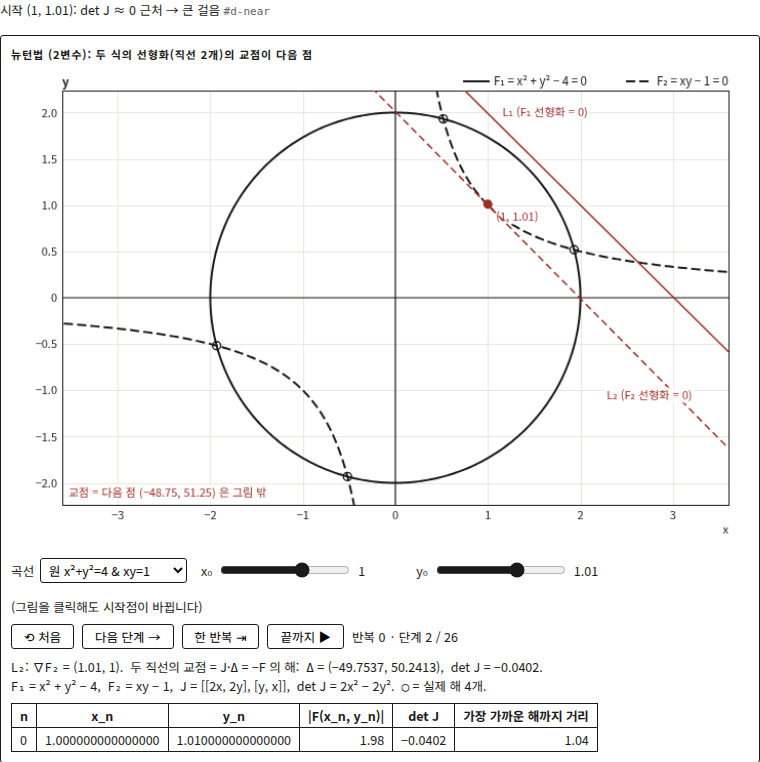
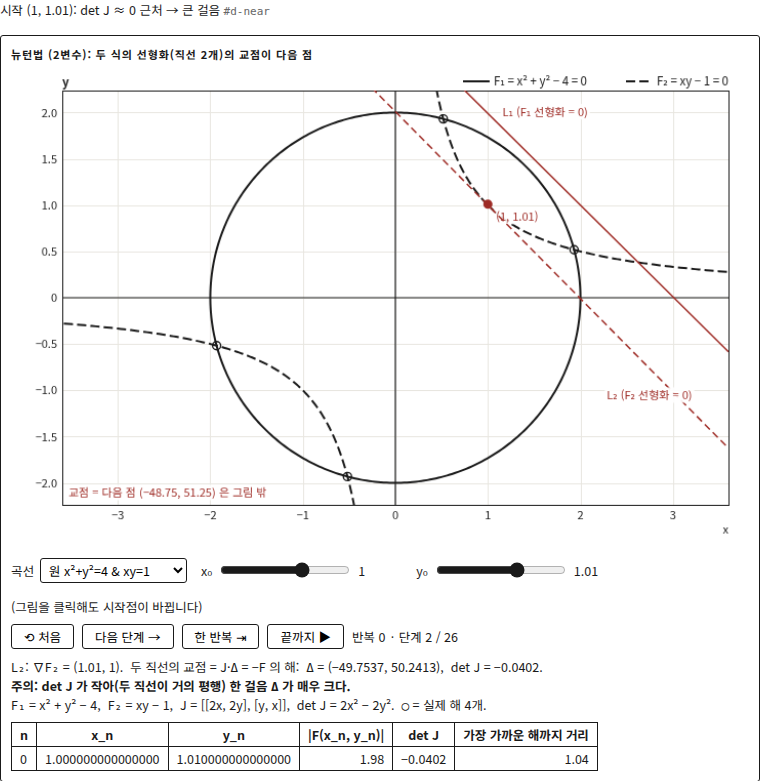
v6-extra-a: apply independent review (divergence status, slow-convergence detection, fmt exponent leak, near-singular warning, cfg types, stop playback on change); report

diff --git a/assets/v6-extra-a.js b/assets/v6-extra-a.js
@@ -34,7 +34,11 @@ function fmt(v,sig){
     return neg(trimZeros(s.slice(0,k)))+"×10"+mapChars(String(parseInt(s.slice(k+1),10)),SUP);
   }
   if(a>=Math.pow(10,sig))return neg(String(Math.round(v)));
-  return neg(trimZeros(v.toPrecision(sig)));
+  var t=v.toPrecision(sig);
+  if(t.indexOf("e")>=0){var k2=t.indexOf("e"),ex=parseInt(t.slice(k2+1),10);
+    if(ex<6)return neg(String(Math.round(v)));
+    return neg(trimZeros(t.slice(0,k2)))+"×10"+mapChars(String(ex),SUP);}
+  return neg(trimZeros(t));
 }
 /* table: many digits so the doubling of correct digits is visible */
 function fmtLong(v){
@@ -118,10 +122,13 @@ calc.newton1d=function(f,df,x0,maxIt){
     if(!isFinite(x)||!isFinite(fx)){status="nan";break;}
     if(fx===0){status="root";break;}
     if(!isFinite(d)){status="nan";break;}
-    if(Math.abs(d)<FLAT){status=Math.abs(x)>1e6?"diverge":"flat";break;} // tiny slope far out = runaway, not a stall
+    if(d===0){status="flat";break;}
     var xn=x-fx/d;
     cur.next=xn;
-    if(!isFinite(xn)||Math.abs(xn)>BIG){status="diverge";break;}
+    if(!isFinite(xn)||Math.abs(xn)>BIG){
+      /* huge step: a near-horizontal tangent at a moderate x is a stall; far out it is a runaway */
+      if(Math.abs(d)<FLAT&&Math.abs(x)<1e6){status="flat";delete cur.next;}else status="diverge";
+      break;}
     it.push({x:xn,fx:f(xn)});
     if(Math.abs(xn-x)<=2e-16*Math.max(1,Math.abs(x))){status="conv";break;}
   }
@@ -208,6 +215,9 @@ calc.longRun=function(g,x0){
       return {kind:p===1?"fixed":"cycle",p:p,pts:c.slice(0,p),slow:slow||(p===1&&spreadA>1e-9)};
     }
   }
+  var dd=[];for(i=1;i<c.length;i++)dd.push(Math.abs(c[i]-c[i-1]));
+  var shrinking=spreadB<0.9*spreadA&&dd.every(function(v,j){return j===0||v<=dd[j-1]*(1+1e-9);});
+  if(shrinking)return {kind:"fixed",p:1,pts:[c[c.length-1]],slow:true};
   return {kind:"none",sample:c[0]};
 };
 calc.logistic={
@@ -383,7 +393,7 @@ function seriesWidget(el,cfg){
   if(!SERIES[preset]){msgs.push("알 수 없는 preset ‘"+preset+"’ → 기하급수로 표시합니다.");preset="geometric";}
   var NMAX=Math.round(clamp(num(cfg.Nmax,200),5,500));
   var st={preset:preset,N:Math.round(clamp(num(cfg.N,30),1,NMAX)),
-    r:clamp(num(cfg.r,0.5),-1.5,1.5),p:clamp(num(cfg.p,1.5),0.5,3),
+    r:Math.round(clamp(num(cfg.r,0.5),-1.5,1.5)*20)/20,p:Math.round(clamp(num(cfg.p,1.5),0.5,3)*20)/20,
     term:typeof cfg.term==="string"?cfg.term:"1/pow(n,2)",kind:null,termFn:null};
   st.kind=cfg.kind==="sequence"||cfg.kind==="series"?cfg.kind:(SERIES[preset].defKind||"series");
   var c=V6.canvas(el,470),ctx=c.getContext("2d");
@@ -475,7 +485,7 @@ function newton1dWidget(el,cfg){
   var msgs=[],preset=cfg.preset;
   if(preset===undefined)preset=(typeof cfg.f==="string")?"custom":"sqrt2";
   if(!NEWTON[preset]){msgs.push("알 수 없는 preset ‘"+preset+"’ → x² − 2 로 표시합니다.");preset="sqrt2";}
-  var st={preset:preset,step:0,maxIt:Math.round(clamp(num(cfg.maxIter,8),1,30)),f:cfg.f||"x*x-2",df:cfg.df||"",cust:null,x0:null,x:null,y:null};
+  var st={preset:preset,step:0,maxIt:Math.round(clamp(num(cfg.maxIter,8),1,30)),f:typeof cfg.f==="string"?cfg.f:"x*x-2",df:typeof cfg.df==="string"?cfg.df:"",cust:null,x0:null,x:null,y:null};
   function setPreset(p,first){
     st.preset=p;var P=NEWTON[p];
     var xr=(first&&Array.isArray(cfg.x)&&cfg.x.length===2)?[num(cfg.x[0],NaN),num(cfg.x[1],NaN)]:P.x.slice();
@@ -490,8 +500,8 @@ function newton1dWidget(el,cfg){
   var c=V6.canvas(el,360),ctx=c.getContext("2d");
   var ctl=mk("div","v6-controls");el.appendChild(ctl);
   addSelect(ctl,"예시",Object.keys(NEWTON).map(function(k){return [k,NEWTON[k].label];}),st.preset,function(v){
-    setPreset(v,false);x0S.set(st.x0);x0Range();sync();recompute();draw();});
-  var x0S=addSlider(ctl,"x₀",st.x[0],st.x[1],0.01,st.x0,function(v){return fmt(v,4);},function(v){st.x0=v;st.step=0;recompute();draw();});
+    stop();setPreset(v,false);x0S.set(st.x0);x0Range();sync();recompute();draw();});
+  var x0S=addSlider(ctl,"x₀",st.x[0],st.x[1],0.01,st.x0,function(v){return fmt(v,4);},function(v){stop();st.x0=v;st.step=0;recompute();draw();});
   function x0Range(){var inp=x0S.lab.querySelector("input");inp.min=st.x[0];inp.max=st.x[1];inp.step=(st.x[1]-st.x[0])>8?0.05:0.01;x0S.set(st.x0);}
   var bar=mk("div","v6-stepbar");el.appendChild(bar);
   var bReset=addBtn(bar,"⟲ 처음",function(){stop();st.step=0;draw();});
@@ -504,7 +514,7 @@ function newton1dWidget(el,cfg){
   function inBox(lbl,val,size){var l=mk("label",null,lbl+" "),i=mk("input");i.type="text";i.value=val;i.size=size;
     i.style.cssText="font:inherit;font-size:12.5px;border:1.2px solid #1a1a1a;border-radius:3px;padding:1px 6px";l.appendChild(i);cRow.appendChild(l);return i;}
   var fIn=inBox("f(x) =",st.f,22),dIn=inBox("f'(x) =",st.df,18);dIn.placeholder="비우면 수치미분";
-  addBtn(cRow,"적용",function(){st.f=fIn.value;st.df=dIn.value;st.step=0;recompute();draw();});
+  addBtn(cRow,"적용",function(){stop();st.f=fIn.value;st.df=dIn.value;st.step=0;recompute();draw();});
   var err=errBox(el),state=mk("div","v6-state");el.appendChild(state);
   var tbl=mk("div","v6-state");tbl.style.overflowX="auto";el.appendChild(tbl);
   var run=null,F=null,DF=null,root=null,rootNote="",custErr="";
@@ -571,8 +581,7 @@ function newton1dWidget(el,cfg){
       var last=it[it.length-1];
       if(run.status==="flat")end=Math.abs(last.fx)<1e-12?"멈춤: f(x)와 f'(x)가 모두 ≈ 0 — 중근 근처에 도달 (더 나눌 수 없음).":
         "멈춤: f'(x"+sub(it.length-1)+") ≈ 0 → 접선이 수평이라 x축과 만나지 않는다 (x_{n+1} 정의 안 됨). 다른 x₀ 를 고르세요.";
-      else if(run.status==="diverge")end=last.next!==undefined?"발산: |x| 가 10⁸ 을 넘어 중단 (x"+sub(it.length)+" = "+fmt(last.next,4)+").":
-        "발산: x"+sub(it.length-1)+" = "+fmt(last.x,4)+" 까지 멀어져 f' 이 사실상 0 — 더 진행할 수 없다.";
+      else if(run.status==="diverge")end="발산: 다음 값 x"+sub(it.length)+" = "+fmt(last.next,4)+" 의 크기가 10⁸ 을 넘어 중단.";
       else if(run.status==="nan")end="중단: f 또는 f' 이 정의되지 않는 점에 도달.";
       else if(run.status==="root")end="f(x"+sub(it.length-1)+") = 0 정확히 — 근에 도달.";
       else if(run.status==="conv")end="수렴: 더 반복해도 x 가 기계정밀도 안에서 변하지 않는다.";
@@ -594,7 +603,7 @@ function newton1dWidget(el,cfg){
         "</td><td style='text-align:right'>"+esc(isNaN(r2)?"—":fmt(r2,3))+"</td></tr>";
     }
     h+="</table>"+(root!==null?"r = "+(P.rootT&&P.rootT!==fmtLong(root)?esc(P.rootT)+" = ":"")+esc(fmtLong(root))+" "+esc(rootNote):esc(rootNote))+
-      (C!==null&&!P.multiple?"  ·  이 근에서 C = |f''(r)/(2f'(r))| ≈ "+esc(fmt(C,4))+(C<1e-12?" (f''(r) = 0 이라 수렴이 2차보다 빠르다: 이 경우 3차)":""):"")+
+      (C!==null&&!P.multiple?"  ·  이 근에서 C = |f''(r)/(2f'(r))| ≈ "+esc(fmt(C,4))+(C<1e-12&&(run.status==="conv"||run.status==="root")?" (f''(r) = 0 이라 수렴이 2차보다 빠르다: 이 경우 3차)":""):"")+
       (P.multiple?"  ·  e_n/e_{n−1} → 1/2 (1차 수렴)":"")+
       "\n(e_{n−1} ≥ 1 이면 e_n/e_{n−1}² 은 의미가 없어 ‘—’)";
     tbl.innerHTML=h;
@@ -635,9 +644,9 @@ function newton2dWidget(el,cfg){
   var c=V6.canvas(el,470),ctx=c.getContext("2d");c.style.cursor="crosshair";
   var ctl=mk("div","v6-controls");el.appendChild(ctl);
   addSelect(ctl,"곡선",Object.keys(PAIRS).map(function(k){return [k,PAIRS[k].label];}),st.pair,function(v){
-    st.pair=v;st.x0=PAIRS[v].x0;st.y0=PAIRS[v].y0;xS.set(st.x0);yS.set(st.y0);st.step=0;recompute();draw();});
-  var xS=addSlider(ctl,"x₀",-LIM,LIM,0.01,st.x0,function(v){return fmt(v,4);},function(v){st.x0=v;st.step=0;recompute();draw();});
-  var yS=addSlider(ctl,"y₀",-LIM,LIM,0.01,st.y0,function(v){return fmt(v,4);},function(v){st.y0=v;st.step=0;recompute();draw();});
+    stop();st.pair=v;st.x0=PAIRS[v].x0;st.y0=PAIRS[v].y0;xS.set(st.x0);yS.set(st.y0);st.step=0;recompute();draw();});
+  var xS=addSlider(ctl,"x₀",-LIM,LIM,0.01,st.x0,function(v){return fmt(v,4);},function(v){stop();st.x0=v;st.step=0;recompute();draw();});
+  var yS=addSlider(ctl,"y₀",-LIM,LIM,0.01,st.y0,function(v){return fmt(v,4);},function(v){stop();st.y0=v;st.step=0;recompute();draw();});
   ctl.appendChild(mk("span",null,"(그림을 클릭해도 시작점이 바뀝니다)"));
   var bar=mk("div","v6-stepbar");el.appendChild(bar);
   var bReset=addBtn(bar,"⟲ 처음",function(){stop();st.step=0;draw();});
@@ -732,7 +741,7 @@ function newton2dWidget(el,cfg){
       else if(run.status==="diverge")end="발산: 다음 점의 좌표가 10⁸ 을 넘어 중단.";
       else end="최대 반복 수에 도달.";
     }
-    if(cur.status==="ok"&&cur.cond<1e-3)end+=(end?" ":"")+"주의: det J 가 작아(두 직선이 거의 평행) 한 걸음 Δ 가 매우 크다.";
+    if(cur.status==="ok"&&(cur.cond<1e-2||Math.hypot(cur.dx,cur.dy)>xr[1]-xr[0]))end+=(end?" ":"")+"주의: det J 가 작아(두 직선이 거의 평행) 한 걸음 Δ 가 매우 크다.";
     state.innerHTML=esc(s)+(end?"\n<b>"+esc(end)+"</b>":"")+"\n"+esc(P.t1+",  "+P.t2+",  "+P.Jt)+".  ○ = 실제 해 4개.";
     var h="<table><tr><th>n</th><th>x_n</th><th>y_n</th><th>|F(x_n, y_n)|</th><th>det J</th><th>가장 가까운 해까지 거리</th></tr>";
     for(var i=0;i<=k;i++){var r=it[i],dist=Infinity;P.sols.forEach(function(sv){dist=Math.min(dist,Math.hypot(r.x-sv[0],r.y-sv[1]));});
@@ -779,7 +788,7 @@ function cobwebWidget(el,cfg){
   var msgs=[],preset=cfg.preset;
   if(preset===undefined)preset=(typeof cfg.g==="string")?"custom":"cos";
   if(!COB[preset]){msgs.push("알 수 없는 preset ‘"+preset+"’ → cos x 로 표시합니다.");preset="cos";}
-  var st={preset:preset,r:clamp(num(cfg.r,2.8),0,4),g:typeof cfg.g==="string"?cfg.g:"cos(x)",x:null,x0:0,n:0,
+  var st={preset:preset,r:Math.round(clamp(num(cfg.r,2.8),0,4)*100)/100,g:typeof cfg.g==="string"?cfg.g:"cos(x)",x:null,x0:0,n:0,
     maxN:Math.round(clamp(num(cfg.maxSteps,60),5,300))};
   function setPreset(p,first){
     st.preset=p;var P=COB[p];
@@ -874,7 +883,8 @@ function cobwebWidget(el,cfg){
     if(fps.length>4)lines.push("… 고정점이 더 있다 ("+fps.length+"개).");
     var obs;
     if(lr.kind==="diverge")obs="발산: "+lr.at+"번째 반복 근처에서 |x_n| 이 10⁶ 을 넘거나 정의되지 않는다.";
-    else if(lr.kind==="fixed")obs="고정점 "+fmt(lr.pts[0],7)+" 근처로 수렴"+(lr.slow?" — 단, 20000회 뒤에도 아직 조금씩 움직이는 매우 느린 수렴":"")+".";
+    else if(lr.kind==="fixed")obs=lr.slow?"매우 느린 수렴: 20000회 뒤에도 아직 움직이는 중 (현재 x ≈ "+fmt(lr.pts[0],7)+", 간격이 계속 줄어듦).":
+      "고정점 "+fmt(lr.pts[0],7)+" 근처로 수렴.";
     else if(lr.kind==="cycle")obs=(lr.slow?"아직 수렴 중(매우 느림) — 20000회 뒤의 모양은 주기 "+lr.p+" 처럼 보이지만 폭이 계속 줄고 있다: ":"주기 "+lr.p+" 궤도: ")+
       lr.pts.slice(0,8).map(function(v){return fmt(v,5);}).join(", ")+(lr.p>8?", …":"")+".";
     else obs="주기 64 이하의 주기가 보이지 않는다 — 혼돈적이거나 주기가 매우 길 수 있다 (수치 관찰일 뿐 증명은 아님).";

diff --git a/verify/a-REPORT.md b/verify/a-REPORT.md
@@ -54,13 +54,32 @@
 
 | 종류 | 방법 | 결과 | 위치 |
 |---|---|---|---|
-| 수치 | `node verify/a-numeric.mjs` — 실제 v6.js + v6-extra-a.js 를 node vm 에 로드(가짜 document, jsdom 없음), 가짜 V6 에만 있는 `__testHook` 으로 내부 `calc` 를 받아 **이 스크립트에서 따로 작성한 계산**과 비교 | **PASS_COUNT** | `verify/a-numeric.log` |
+| 수치 | `node verify/a-numeric.mjs` — 실제 v6.js + v6-extra-a.js 를 node vm 에 로드(가짜 document, jsdom 없음), 가짜 V6 에만 있는 `__testHook` 으로 내부 `calc` 를 받아 **이 스크립트에서 따로 작성한 계산**과 비교 | **145 / 145 PASS** | `verify/a-numeric.log` |
 | 렌더링 | 헤드리스 Chromium + CDP(`verify/a-shoot.mjs`)로 demo-a.html 의 예시 34개를 하나씩(`?only=id`) 캡처, 콘솔 에러·예외 수집, Read 로 직접 열어 확인 | 콘솔 에러/예외 0 (favicon 404 만) | `verify/shots/*.png` |
 | 인터랙션 | `verify/a-interact.mjs` — 모든 프리셋×슬라이더(최소/중간/최대/0/±1)×버튼 반복 클릭, 잘못된 식 12종 입력, newton2d 캔버스 클릭 | 약 2만 회 조작, 예외 0, 위젯 오류 메시지 0 | `verify/a-interact.log` |
-| 적대적 리뷰 | 별도 에이전트가 코드만 읽고 수학 문구·로직·엣지 config 검토 | REVIEW_RESULT | 이 문서 아래 |
+| 적대적 리뷰 | 별도 에이전트(내 결론을 주지 않고 코드만 전달)가 수학 문구·로직·엣지 config 검토 | 8건 지적 → 7건 수정(1건은 이미 수정됨), 회귀 테스트 7개 추가 | 이 문서 아래 |
 
 수치 검증에 들어 있는 것 (일부): Σ1/n² 부분합과 적분판정 꼬리 범위(N=10,30,100,200), 교대 조화 오차 한계, H₁₀₀, 기하 부분합 닫힌 형태(r=−1,1,1.5 포함), ζ(1.05/1.5/3) 독립 합과 문헌값, 뉴턴 프리셋 반복열 전부(독립 구현과 상대오차 < 10⁻¹³), √2·cos 의 C 값, 중근의 비 1/2, arctan 임계값 1.3917 과 x₀=1.39 수렴/1.40 발산, x³−2x+2 의 정확한 0,1 반복, 2D 반복열(가우스 소거 독립 구현)과 det, 특이점 (1,1)·(0,1), 로지스틱 고정점·g'(x*)=2−r, 2-주기 점의 닫힌 형태, 1+√6 (2-주기 승수 = −1), r=3.544→4-주기 / 3.5442→8-주기, 주기 3 창(r=3.835), r=3·r=1 "느린 수렴" 판정, tan 의 극을 가짜 고정점으로 잡지 않음, 식 가드 15종.
 
 ## 한계 · 불확실한 부분 (솔직하게)
 
-LIMITS
+- **수치 검증과 화면 확인은 모두 제가 직접 했습니다(자기 보고).** 헤드리스 Chromium 1종(데스크톱 폭 800px)에서만 렌더링했고, 실제 사이트 페이지에 넣어 보거나 모바일·Safari·Firefox 에서 확인하지는 않았습니다.
+- **스크린샷은 시작 상태(cfg.step)만 찍었습니다.** "끝까지 ▶" 애니메이션 도중 화면, 슬라이더를 끄는 동안의 화면은 퍼징으로 예외만 확인했고 눈으로 보지는 않았습니다.
+- 라벨 겹침은 데모 34개에서만 확인했습니다. 사용자가 x 범위나 식을 바꾸면 접선 라벨(x_k), 직선 라벨(L₁/L₂), 점 좌표 라벨이 곡선이나 서로 조금 겹칠 수 있습니다. newton2d 의 (1, 1.01) 라벨이 L₂ 직선에 살짝 걸리는 정도의 겹침은 남아 있습니다.
+- **판정은 프리셋에서만 단정합니다.** 직접 입력한 급수는 수렴·발산을 판정하지 않습니다(의도한 동작). 직접 입력한 뉴턴의 "오차"는 100회 반복한 값을 참값 대신 쓴 추정치이고, 직접 입력한 g 의 고정점은 그림 범위 안에서만 수치로 찾습니다. 불연속 함수는 놓치거나 경계에서 틀릴 수 있습니다(tan 의 극은 걸러짐).
+- cobweb 의 장기 거동은 **20000회 수치 관찰**입니다. 주기 64를 넘는 궤도나 분기점 바로 옆의 아주 느린 수렴은 "주기 없음"이나 "느린 수렴"으로 잘못 보일 수 있습니다. 화면에도 "수치 관찰일 뿐 증명은 아님"이라고 적어 두었습니다. 로지스틱 구간 문구는 r 로만 정하고, 3.5699 이상에서는 개별 r 의 창(window)을 맞히지 않습니다. 이 경우 수치 관찰 줄을 같이 보아야 합니다.
+- 뉴턴 멈춤 기준(|f'| < 10⁻¹² 이면서 다음 걸음 > 10⁸, |x| > 10⁸ 이면 발산, 2-주기 감지)은 경험적 임계값입니다. 스케일이 아주 크거나 작은 f 에서는 판정 문구가 어색할 수 있습니다.
+- `V6.makeFn` 은 진짜 샌드박스가 아닙니다. 위젯 입력창은 문자·이름 화이트리스트로 막았지만, data-config 에 들어가는 식은 페이지 작성자를 믿는다는 전제입니다. 거듭제곱 `**` 는 허용하고, `-2**2` 같은 JS 문법 오류는 "식을 해석할 수 없습니다"로 처리합니다.
+- ζ(p)(p≠2)는 Euler–Maclaurin 수치값입니다. 화면에 "(수치 계산값)"이라고 표기하고, 독립 합과 문헌값으로 10⁻⁹ 이내인지 확인했습니다.
+- "음함수정리 증명의 축소사상 논법과 같은 구조"라는 문구는 요청서를 따른 것입니다. Lax & Terrell 교재의 음함수정리 증명이 실제로 축소사상을 쓰는지는 교재를 직접 확인하지 못했습니다. 그래서 "축소사상으로 음함수정리를 증명할 때와 같은 구조"라고 일반적인 표현으로 적었습니다. 교재 증명 방식이 다르면 문구를 바꿔야 합니다.
+- demo-a.html 은 Noto Sans KR 을 `hw1/fonts/` 에서 빌려 씁니다. 다른 페이지에 넣을 때는 그 페이지의 폰트 설정을 따릅니다. 캔버스 글꼴은 폰트 로드 뒤 한 번 더 그려서 맞춥니다.
+- 포트 8765 는 다른 워커가 쓰고 있어서 검증용 서버는 127.0.0.1:18731 에서 띄웠습니다(`python3 -m http.server 18731 --directory <repo>`).
+
+## 재현
+
+```
+python3 -m http.server 18731 --bind 127.0.0.1 --directory /home/ubuntu/math102-wt/a &
+node verify/a-numeric.mjs                                       # → verify/a-numeric.log
+node verify/a-shoot.mjs http://127.0.0.1:18731/demo-a.html      # → verify/shots/*.png
+node verify/a-interact.mjs http://127.0.0.1:18731/demo-a.html   # → 예외 수
+```
